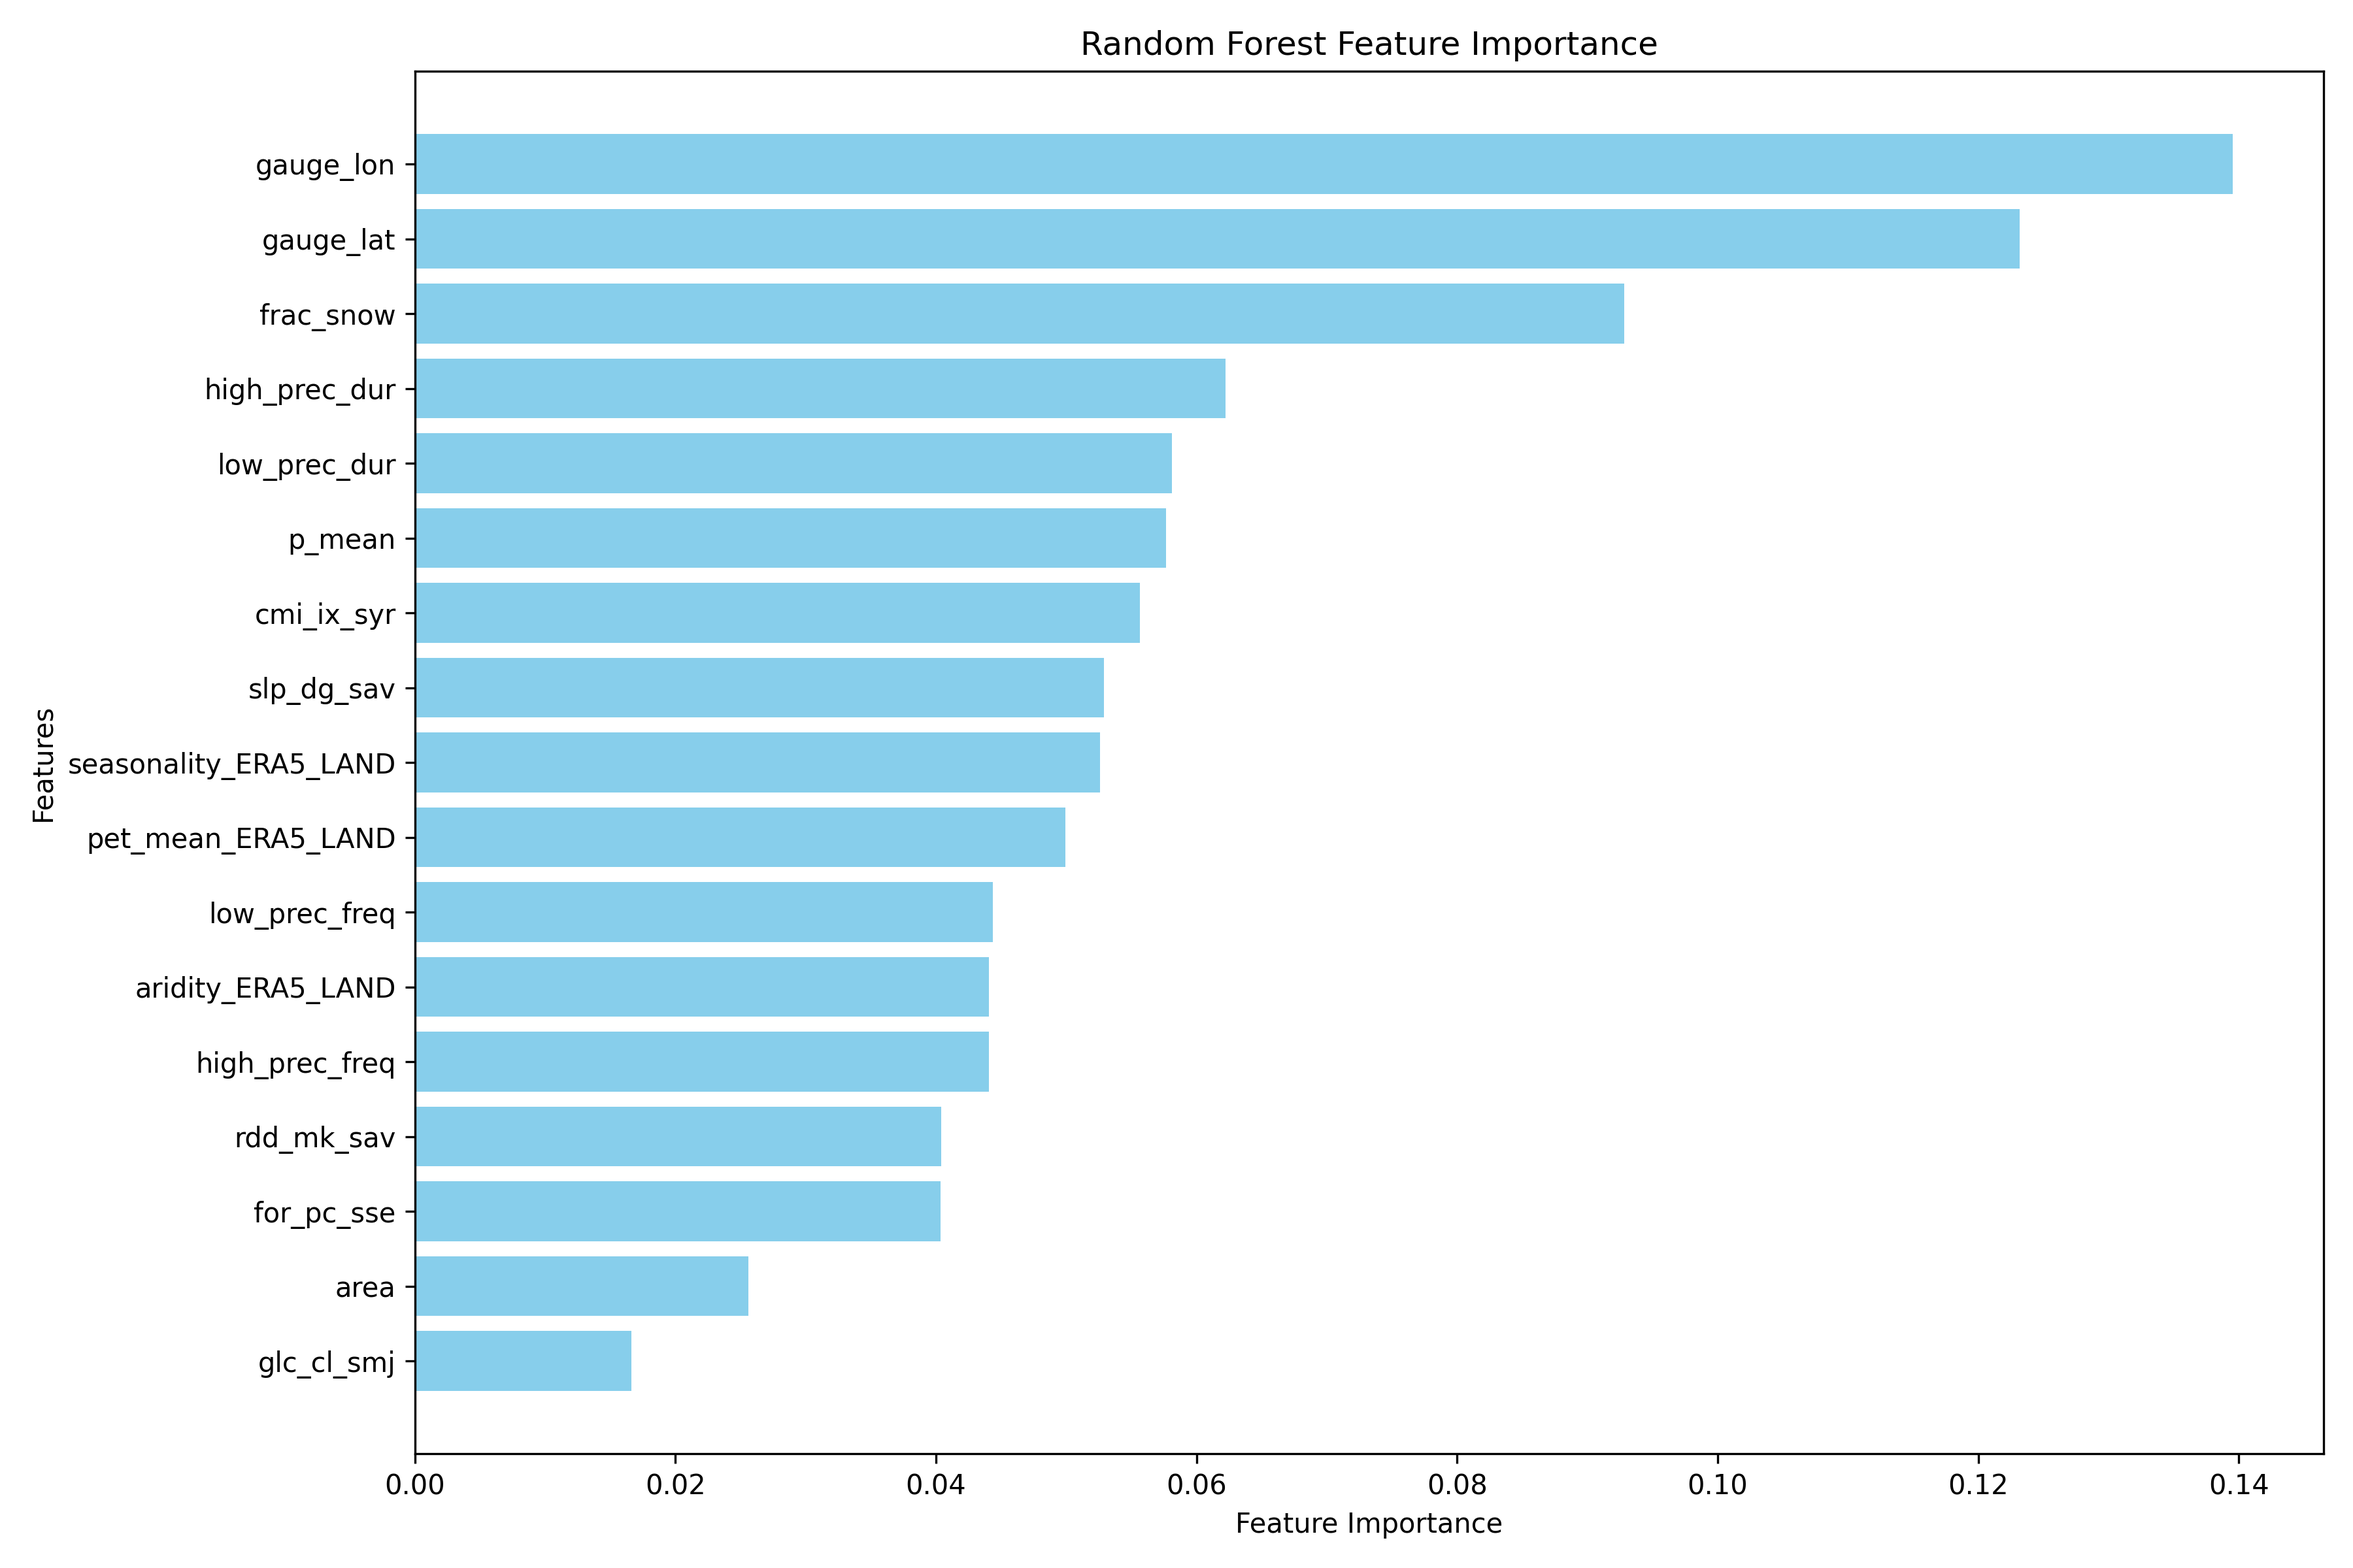
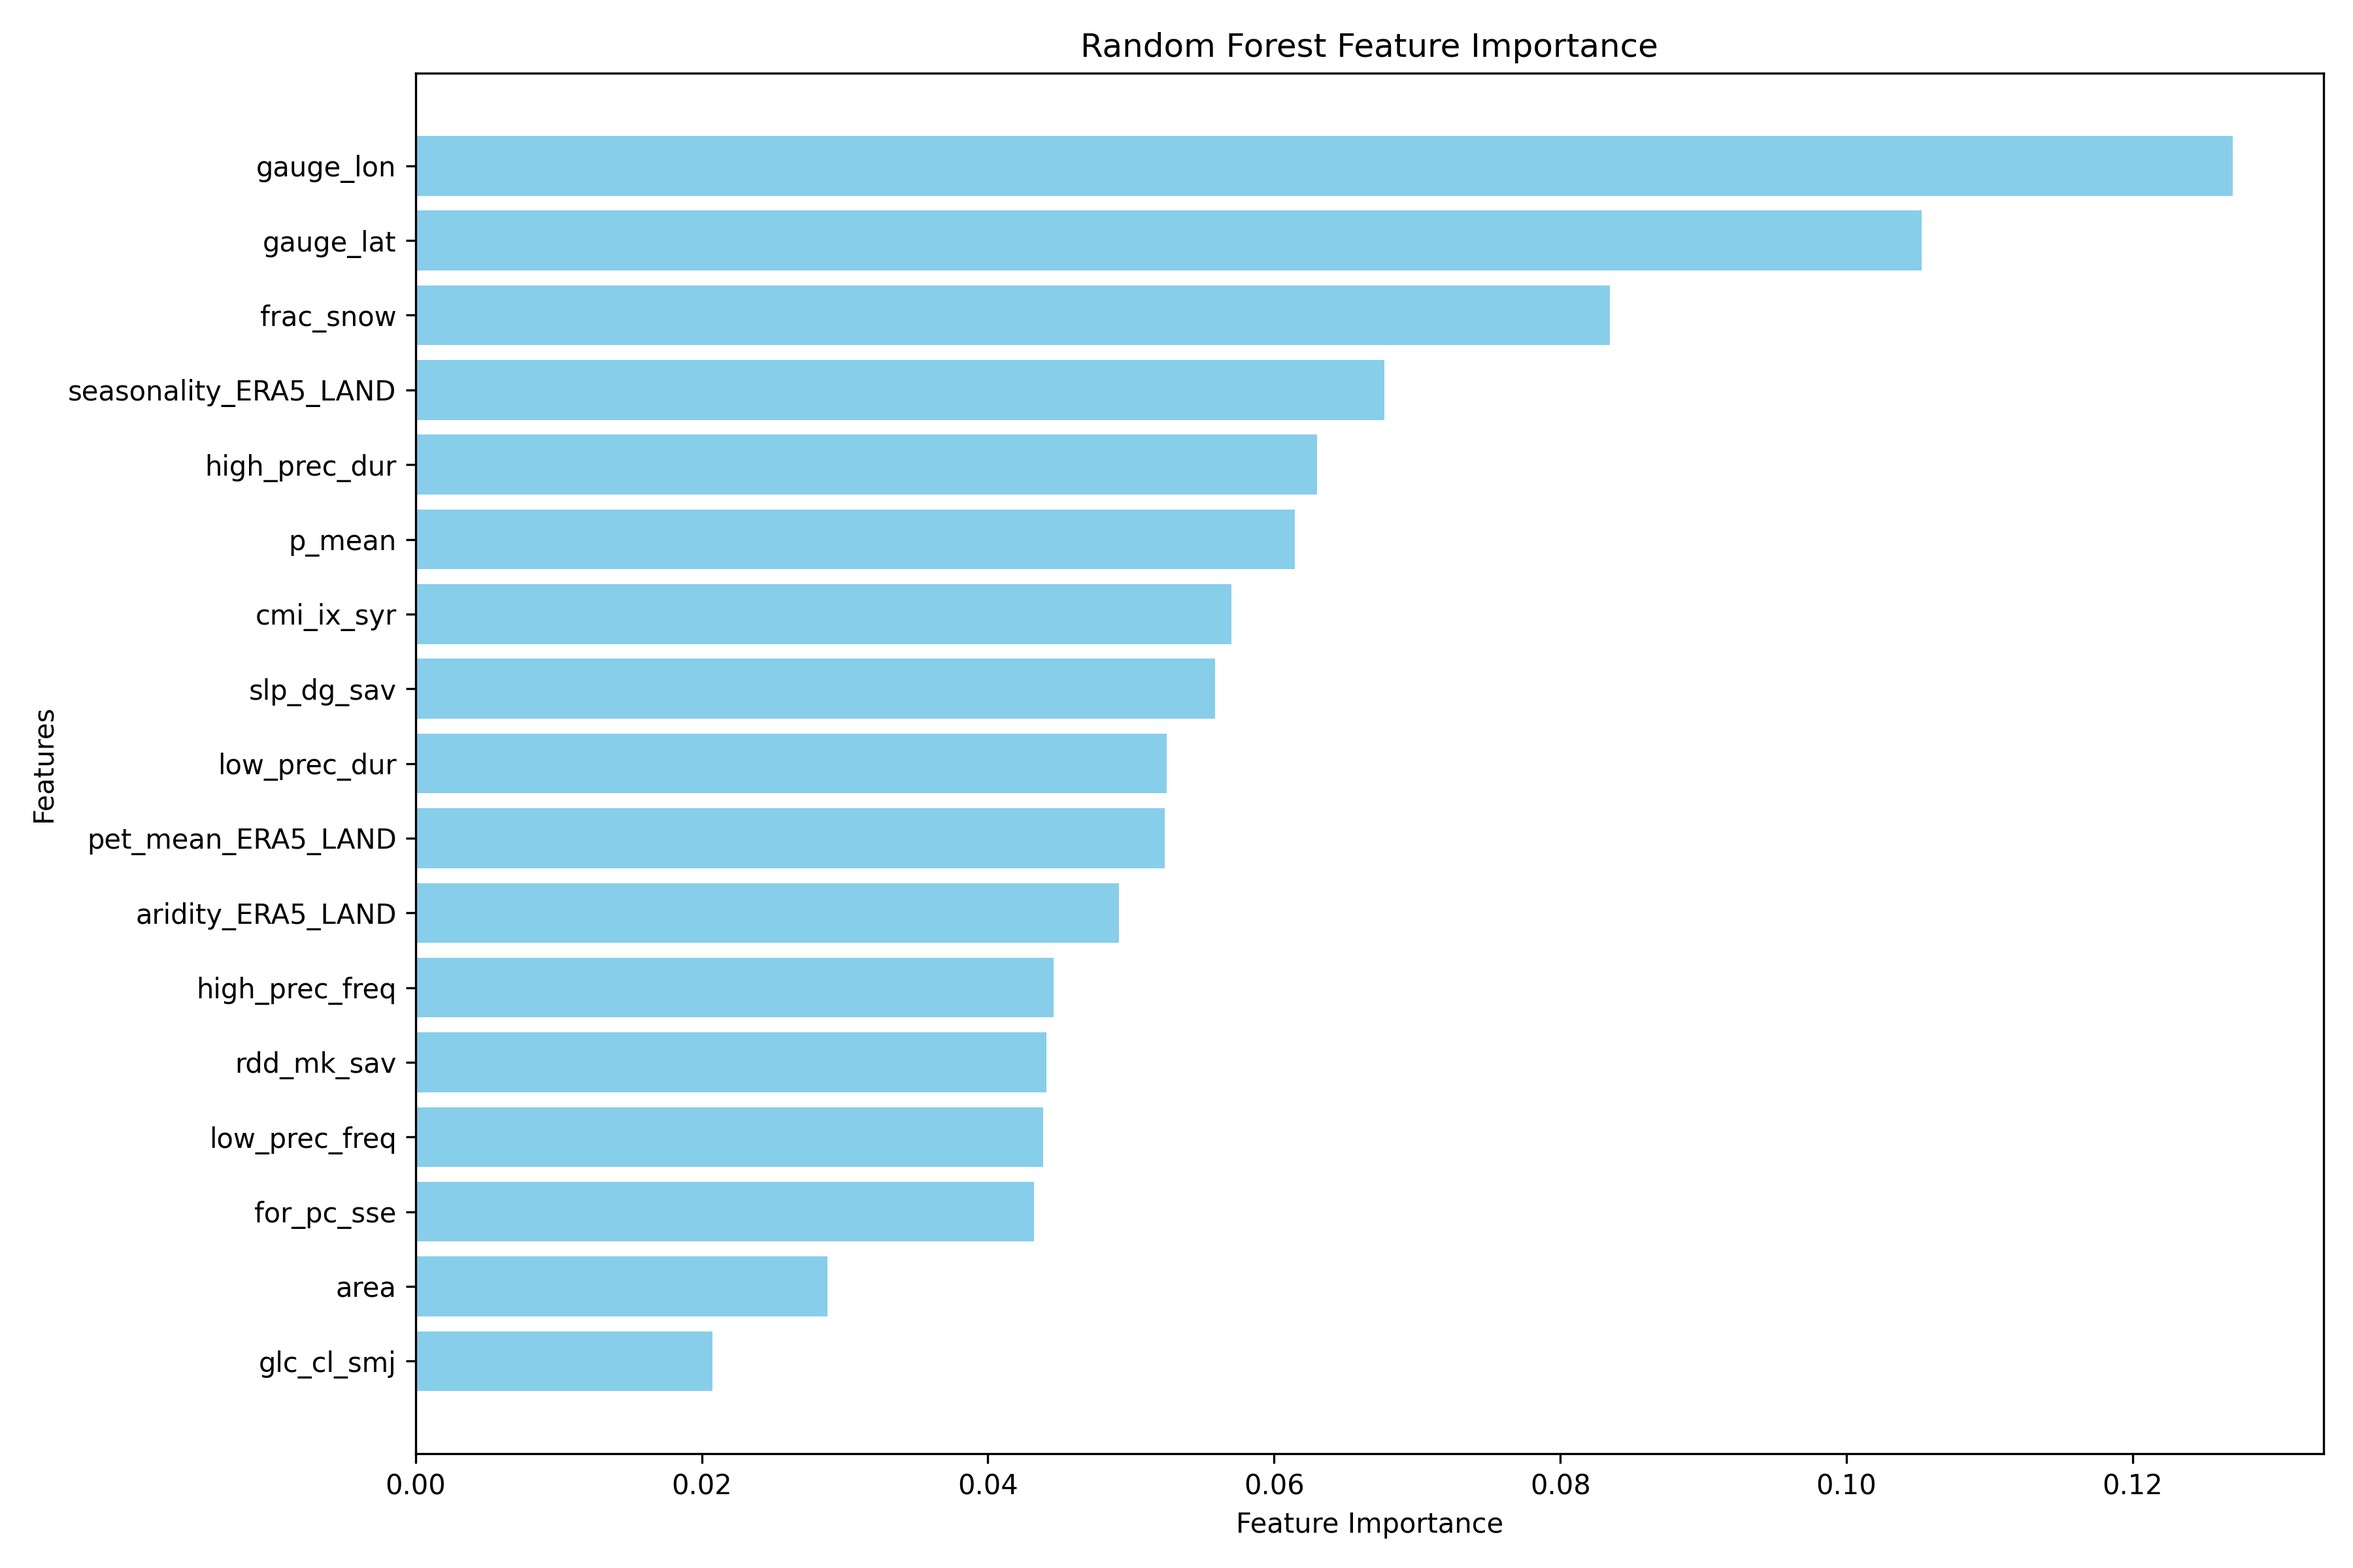
Run RF classifier for 13 clusters

diff --git a/clustering/random_forest_classification.py b/clustering/random_forest_classification.py
@@ -654,10 +654,10 @@ def main(config: ClassificationConfig) -> None:
 if __name__ == "__main__":
     # Define configuration
     config = ClassificationConfig(
-        attributes_base_dir="/Users/cooper/Desktop/CAMELS-CH/data/CARAVANIFY",
-        timeseries_base_dir="/Users/cooper/Desktop/CAMELS-CH/data/CARAVANIFY",
+        attributes_base_dir="/workspace/CARAVANIFY",
+        timeseries_base_dir="/workspace/CARAVANIFY",
         output_dir="./classification_results",
-        cluster_assignment_path="/Users/cooper/Desktop/CAMELS-CH/clustering_results/cluster_assignments13.csv",
+        cluster_assignment_path="/workspace/CAMELS-CH/clustering_results/cluster_assignments13.csv",
         source_countries=["CH", "CL", "USA"],
         target_country="CA",
         n_clusters=13,
